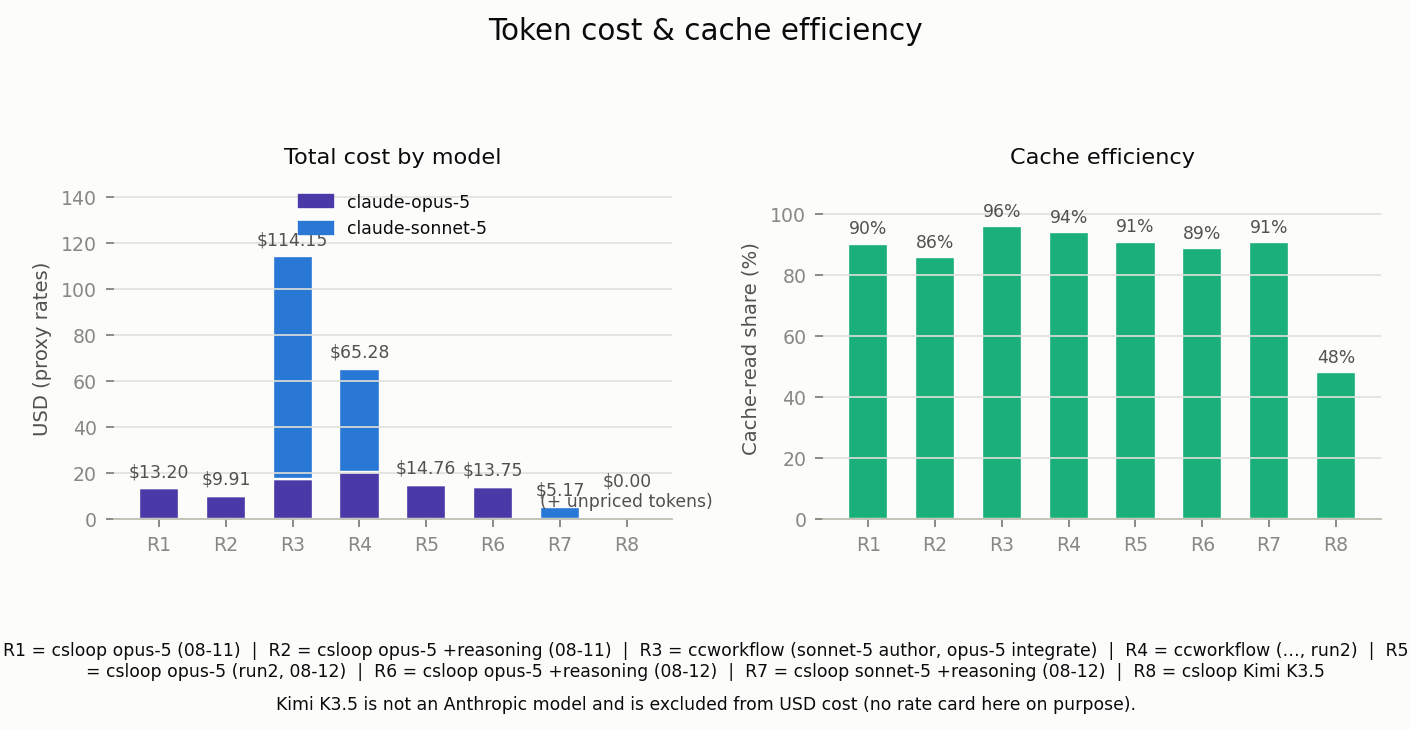
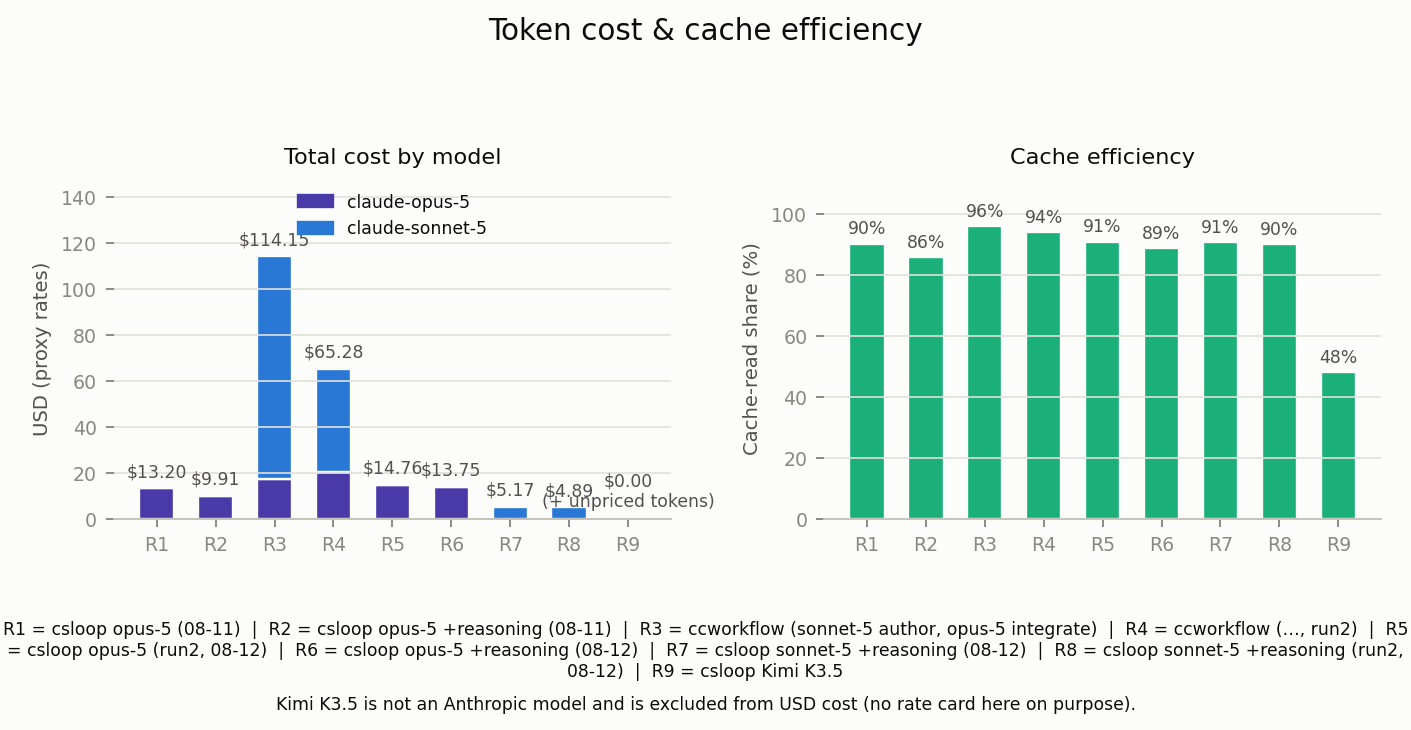
add evals

diff --git a/evals/analysis/generate_graphs.py b/evals/analysis/generate_graphs.py
@@ -40,7 +40,7 @@ from parse_ccworkflow import parse_all_ccworkflow
 from parse_csloop import parse_all_csloop
 from parse_coverage import coverage_for_run
 from pricing import cost, PRICING
-from git_file_counts import translated_file_count
+from git_file_counts import translated_file_count, translated_file_units, module_of
 
 REPO_ROOT = Path(__file__).parent.parent
 EXPERIMENTS = REPO_ROOT / "experiments"
@@ -124,6 +124,7 @@ RUN_LABELS = {
     ("08-12-2026", "codescribe-opus-5-run2"): "csloop opus-5 (run2, 08-12)",
     ("08-12-2026", "codescribe-opus-5-with-reasoning"): "csloop opus-5 +reasoning (08-12)",
     ("08-12-2026", "codescribe-sonnet-5-with-reasoning"): "csloop sonnet-5 +reasoning (08-12)",
+    ("08-12-2026", "codescribe-sonnet-5-with-reasoning-run2"): "csloop sonnet-5 +reasoning (run2, 08-12)",
     ("08-12-2026", "codescribe-kimi-k3-5"): "csloop Kimi K3.5",
 }
 # Short x-axis codes — keeps bars legible even in the compact standalone
@@ -136,13 +137,15 @@ RUN_CODES = {
     ("08-12-2026", "codescribe-opus-5-run2"): "R5",
     ("08-12-2026", "codescribe-opus-5-with-reasoning"): "R6",
     ("08-12-2026", "codescribe-sonnet-5-with-reasoning"): "R7",
-    ("08-12-2026", "codescribe-kimi-k3-5"): "R8",
+    ("08-12-2026", "codescribe-sonnet-5-with-reasoning-run2"): "R8",
+    ("08-12-2026", "codescribe-kimi-k3-5"): "R9",
 }
 RUN_CODE_CAPTION = (
     "R1 = csloop opus-5 (08-11)  |  R2 = csloop opus-5 +reasoning (08-11)  |  "
     "R3 = ccworkflow (sonnet-5 author, opus-5 integrate)  |  R4 = ccworkflow (…, run2)  |  "
     "R5 = csloop opus-5 (run2, 08-12)  |  R6 = csloop opus-5 +reasoning (08-12)  |  "
-    "R7 = csloop sonnet-5 +reasoning (08-12)  |  R8 = csloop Kimi K3.5"
+    "R7 = csloop sonnet-5 +reasoning (08-12)  |  R8 = csloop sonnet-5 +reasoning (run2, 08-12)  |  "
+    "R9 = csloop Kimi K3.5"
 )
 KEYS = list(RUN_LABELS.keys())
 
@@ -292,6 +295,46 @@ def load_files_settled():
     """Exact translated-file count per run, from the software/mcfm submodule
     branch (git_file_counts.py) — not the agent's self-reported checklist."""
     return {key: translated_file_count(*key) for key in KEYS}
+
+
+def load_translated_units():
+    """Exact list of translated-file identities per run (e.g. "BDK/M1bit1"),
+    used to compare which specific files different runs picked."""
+    return {key: translated_file_units(*key) for key in KEYS}
+
+
+def modules_touched(translated_units):
+    """{run: {module: file_count}} — which top-level src/ directories each
+    run's translated files came from."""
+    from collections import Counter
+    return {k: Counter(module_of(u) for u in (units or [])) for k, units in translated_units.items()}
+
+
+def pairwise_file_overlap(translated_units):
+    """For every pair of runs that share at least one top-level module, the
+    exact and set-based overlap of which files they translated. Pairs with no
+    module in common are skipped — there's nothing to compare."""
+    keys = list(translated_units.keys())
+    pairs = []
+    for i in range(len(keys)):
+        for j in range(i + 1, len(keys)):
+            a, b = keys[i], keys[j]
+            set_a = set(translated_units[a] or [])
+            set_b = set(translated_units[b] or [])
+            modules_a = {module_of(u) for u in set_a}
+            modules_b = {module_of(u) for u in set_b}
+            shared_modules = sorted(modules_a & modules_b)
+            if not shared_modules:
+                continue
+            overlap = set_a & set_b
+            pairs.append({
+                "a": a, "b": b,
+                "shared_modules": shared_modules,
+                "files_a": len(set_a), "files_b": len(set_b),
+                "overlap": len(overlap),
+                "overlap_files": sorted(overlap),
+            })
+    return pairs
 
 
 def load_tool_calls_per_file(cc_rows, cs_rows, files_settled):
@@ -633,7 +676,7 @@ def make_combined_figure(runs, coverage, files_settled, reasoning_stats, wall_ti
 # ---------------------------------------------------------------------------
 # Summary tables (markdown) — single source of numeric truth for the write-up
 # ---------------------------------------------------------------------------
-def write_summary_tables(runs, coverage, files_settled, reasoning_stats, wall_times, tool_calls_per_file):
+def write_summary_tables(runs, coverage, files_settled, translated_units, reasoning_stats, wall_times, tool_calls_per_file):
     lines = ["# Summary tables (generated by analysis/generate_graphs.py — do not hand-edit)\n"]
 
     lines.append("## Run comparison: cost, cache, wall time, tool calls & files settled\n")
@@ -715,6 +758,40 @@ def write_summary_tables(runs, coverage, files_settled, reasoning_stats, wall_ti
         lines.append(f"| {RUN_LABELS[k].replace(chr(10), ' ')} | {c['final_status']} | {sp} |")
     lines.append("")
 
+    mods = modules_touched(translated_units)
+    all_modules = sorted({m for counts in mods.values() for m in counts})
+    lines.append("## Which src/ module each run translated files from (git-exact)\n")
+    lines.append(
+        "Which top-level `software/mcfm/src/` directory each run's translated files came from — "
+        "shows whether runs converged on the same module or scattered across different ones.\n"
+    )
+    lines.append("| Run | " + " | ".join(all_modules) + " | Total |")
+    lines.append("|---|" + "---:|" * (len(all_modules) + 1))
+    for k in KEYS:
+        counts = mods[k]
+        cells = [str(counts.get(m, 0) or "") for m in all_modules]
+        lines.append(f"| {RUN_LABELS[k].replace(chr(10), ' ')} | " + " | ".join(cells) + f" | {sum(counts.values())} |")
+    lines.append("")
+
+    overlaps = pairwise_file_overlap(translated_units)
+    lines.append("## File-level overlap between runs sharing a module (git-exact)\n")
+    lines.append(
+        "For every pair of runs that translated files from at least one of the same modules: how many of "
+        "the *exact same files* they both picked, vs. how many files each translated in total. High overlap "
+        "relative to the smaller run's total means the two runs converged on the same files; low overlap "
+        "despite a shared module means they diverged within it.\n"
+    )
+    lines.append("| Run A | Run B | Shared module(s) | Files (A) | Files (B) | Overlap | Overlap / min(A,B) |")
+    lines.append("|---|---|---|---:|---:|---:|---:|")
+    for p in sorted(overlaps, key=lambda p: -p["overlap"]):
+        denom = min(p["files_a"], p["files_b"]) or 1
+        lines.append(
+            f"| {RUN_LABELS[p['a']].replace(chr(10), ' ')} | {RUN_LABELS[p['b']].replace(chr(10), ' ')} | "
+            f"{', '.join(p['shared_modules'])} | {p['files_a']} | {p['files_b']} | {p['overlap']} | "
+            f"{100*p['overlap']/denom:.0f}% |"
+        )
+    lines.append("")
+
     out = Path(__file__).parent / "summary_tables.md"
     out.write_text("\n".join(lines))
     print(f"wrote {out}")
@@ -732,6 +809,8 @@ def main():
     for k, f in files_settled.items():
         print(f"{k}: files settled (git-exact) = {f}")
 
+    translated_units = load_translated_units()
+
     reasoning_stats = compute_reasoning_stats(cs_rows)
     wall_times = load_wall_times(cs_rows)
     for k, s in wall_times.items():
@@ -744,7 +823,7 @@ def main():
     make_standalone_figures(runs, coverage, files_settled, reasoning_stats, wall_times, tool_calls_per_file)
     _bump_fonts_for_combined()
     make_combined_figure(runs, coverage, files_settled, reasoning_stats, wall_times, tool_calls_per_file)
-    write_summary_tables(runs, coverage, files_settled, reasoning_stats, wall_times, tool_calls_per_file)
+    write_summary_tables(runs, coverage, files_settled, translated_units, reasoning_stats, wall_times, tool_calls_per_file)
 
 
 if __name__ == "__main__":

diff --git a/evals/analysis/git_file_counts.py b/evals/analysis/git_file_counts.py
@@ -49,26 +49,52 @@ def _resolve_branch_ref(day, run_name):
     return None
 
 
-def translated_file_count(day, run_name):
-    """Exact count of original Fortran files retired (renamed to deprecated/
-    or deleted outright) under src/, relative to BASE_REF. Returns None if the
-    branch can't be found."""
+def translated_file_units(day, run_name):
+    """Sorted list of unit identifiers for original Fortran files retired
+    (renamed to deprecated/ or deleted outright) under src/, relative to
+    BASE_REF — e.g. "BDK/M1bit1", "W2jet/fpp". One entry per translated file;
+    the .cpp/.hpp/_fi.F90 outputs of that translation are not separate
+    entries. Returns None if the branch can't be found."""
     ref = _resolve_branch_ref(day, run_name)
     if ref is None:
         return None
     diff = _git("diff", "--name-status", BASE_REF, ref, "--", "src/")
-    renamed = 0
-    deleted = 0
+    units = []
     for line in diff.splitlines():
         parts = line.split("\t")
-        status = parts[0]
+        status, path = parts[0], parts[1]
         if status.startswith("R") and status != "R100":
             continue  # partial-similarity renames aren't seen in practice; be conservative
         if status == "R100":
-            renamed += 1
-        elif status == "D" and parts[1].rstrip().lower().endswith((".f", ".f90")):
-            deleted += 1
-    return renamed + deleted
+            units.append(path)
+        elif status == "D" and path.rstrip().lower().endswith((".f", ".f90")):
+            units.append(path)
+    # Strip "src/" prefix and extension so the identifier is stable whether
+    # the file was found via a deprecated/ rename or a plain delete.
+    cleaned = []
+    for u in units:
+        u = u[len("src/"):] if u.startswith("src/") else u
+        for ext in (".f90", ".F90", ".f"):
+            if u.endswith(ext):
+                u = u[: -len(ext)]
+                break
+        cleaned.append(u)
+    return sorted(cleaned)
+
+
+def translated_file_count(day, run_name):
+    """Exact count of original Fortran files retired, relative to BASE_REF.
+    Returns None if the branch can't be found."""
+    units = translated_file_units(day, run_name)
+    return None if units is None else len(units)
+
+
+def module_of(unit):
+    """Top-level src/ subdirectory a unit belongs to, e.g. "BDK" for
+    "BDK/M1bit1". Units are built from the pre-rename path (see
+    translated_file_units), so this is always the module the file lived in
+    before translation, never "deprecated"."""
+    return unit.split("/")[0]
 
 
 if __name__ == "__main__":
@@ -76,8 +102,12 @@ if __name__ == "__main__":
         ("08-11-2026", "csloop-opus-5"),
         ("08-11-2026", "csloop-opus-5-with-reasoning"),
         ("08-12-2026", "ccworkflow-sonnet-5-opus-5-integrate"),
+        ("08-12-2026", "ccworkflow-sonnet-5-opus-5-integrate-run2"),
         ("08-12-2026", "codescribe-opus-5-run2"),
         ("08-12-2026", "codescribe-opus-5-with-reasoning"),
+        ("08-12-2026", "codescribe-sonnet-5-with-reasoning"),
+        ("08-12-2026", "codescribe-sonnet-5-with-reasoning-run2"),
         ("08-12-2026", "codescribe-kimi-k3-5"),
     ]:
-        print(day, run_name, translated_file_count(day, run_name))
+        units = translated_file_units(day, run_name)
+        print(day, run_name, len(units) if units is not None else None, units)

diff --git a/evals/analysis/summary_tables.md b/evals/analysis/summary_tables.md
@@ -11,6 +11,7 @@
 | csloop opus-5 (run2, 08-12) | $14.76 | 91% | 49 min | 22.5 | 19 | 2.6 min | $0.78 |
 | csloop opus-5 +reasoning (08-12) | $13.75 | 89% | 45 min | 27.4 | 14 | 3.2 min | $0.98 |
 | csloop sonnet-5 +reasoning (08-12) | $5.17 | 91% | 34 min | — | 0 | — | — |
+| csloop sonnet-5 +reasoning (run2, 08-12) | $4.89 | 90% | 35 min | 35.0 | 10 | 3.5 min | $0.49 |
 | csloop Kimi K3.5 | $0.00 (n/a, non-Anthropic) | 48% | 39 min | 68.8 | 5 | 7.9 min | n/a |
 
 ## Token usage, cost, cache & wall time detail
@@ -24,6 +25,7 @@
 | csloop opus-5 (run2, 08-12) | 217,433 | 148,767 | 789,671 | 10,046,165 | 91% | $14.76 | 49 min |
 | csloop opus-5 +reasoning (08-12) | 186,152 | 157,626 | 796,443 | 7,796,182 | 89% | $13.75 | 45 min |
 | csloop sonnet-5 +reasoning (08-12) | 187,693 | 129,013 | 703,545 | 8,733,778 | 91% | $5.17 | 34 min |
+| csloop sonnet-5 +reasoning (run2, 08-12) | 190,507 | 130,816 | 658,644 | 7,786,567 | 90% | $4.89 | 35 min |
 | csloop Kimi K3.5 | 6,713,860 | 72,134 | 0 | 6,229,312 | 48% | $0.00 (+ tokens from oaic-moonshotai/Kimi-K3, not priced) | 39 min |
 
 ## Cost by model
@@ -37,6 +39,7 @@
 | csloop opus-5 (run2, 08-12) | $14.76 | $0.00 |
 | csloop opus-5 +reasoning (08-12) | $13.75 | $0.00 |
 | csloop sonnet-5 +reasoning (08-12) | $0.00 | $5.17 |
+| csloop sonnet-5 +reasoning (run2, 08-12) | $0.00 | $4.89 |
 | csloop Kimi K3.5 | $0.00 | $0.00 |
 
 ## csloop opus-5: +reasoning vs. run2 tool-call outcomes (08-12-2026)
@@ -57,4 +60,42 @@
 | csloop opus-5 (run2, 08-12) | stopped-at-gate | — |
 | csloop opus-5 +reasoning (08-12) | stopped-at-gate | 272/272 |
 | csloop sonnet-5 +reasoning (08-12) | stopped-at-gate | 272/272 |
+| csloop sonnet-5 +reasoning (run2, 08-12) | stopped-at-gate | — |
 | csloop Kimi K3.5 | stopped-at-gate | — |
+
+## Which src/ module each run translated files from (git-exact)
+
+Which top-level `software/mcfm/src/` directory each run's translated files came from — shows whether runs converged on the same module or scattered across different ones.
+
+| Run | BDK | Mods | Procdep | ThreeJets | W2jet | Z2jet | loop | Total |
+|---|---:|---:|---:|---:|---:|---:|---:|---:|
+| csloop opus-5 (08-11) |  |  |  |  | 15 |  |  | 15 |
+| csloop opus-5 +reasoning (08-11) |  |  |  |  | 5 | 6 | 9 | 20 |
+| ccworkflow (sonnet-5 author, opus-5 integrate) | 12 | 2 | 1 | 11 |  | 6 | 9 | 41 |
+| ccworkflow (sonnet-5 author, opus-5 integrate, run2) | 15 |  |  |  |  |  |  | 15 |
+| csloop opus-5 (run2, 08-12) |  |  |  |  | 19 |  |  | 19 |
+| csloop opus-5 +reasoning (08-12) |  |  |  |  | 14 |  |  | 14 |
+| csloop sonnet-5 +reasoning (08-12) |  |  |  |  |  |  |  | 0 |
+| csloop sonnet-5 +reasoning (run2, 08-12) | 10 |  |  |  |  |  |  | 10 |
+| csloop Kimi K3.5 |  |  |  |  | 5 |  |  | 5 |
+
+## File-level overlap between runs sharing a module (git-exact)
+
+For every pair of runs that translated files from at least one of the same modules: how many of the *exact same files* they both picked, vs. how many files each translated in total. High overlap relative to the smaller run's total means the two runs converged on the same files; low overlap despite a shared module means they diverged within it.
+
+| Run A | Run B | Shared module(s) | Files (A) | Files (B) | Overlap | Overlap / min(A,B) |
+|---|---|---|---:|---:|---:|---:|
+| csloop opus-5 (08-11) | csloop opus-5 (run2, 08-12) | W2jet | 15 | 19 | 14 | 93% |
+| csloop opus-5 +reasoning (08-11) | ccworkflow (sonnet-5 author, opus-5 integrate) | Z2jet, loop | 20 | 41 | 14 | 70% |
+| csloop opus-5 (run2, 08-12) | csloop opus-5 +reasoning (08-12) | W2jet | 19 | 14 | 12 | 86% |
+| csloop opus-5 (08-11) | csloop opus-5 +reasoning (08-12) | W2jet | 15 | 14 | 11 | 79% |
+| ccworkflow (sonnet-5 author, opus-5 integrate) | ccworkflow (sonnet-5 author, opus-5 integrate, run2) | BDK | 41 | 15 | 8 | 53% |
+| csloop opus-5 (08-11) | csloop opus-5 +reasoning (08-11) | W2jet | 15 | 20 | 5 | 33% |
+| csloop opus-5 +reasoning (08-11) | csloop opus-5 (run2, 08-12) | W2jet | 20 | 19 | 5 | 26% |
+| csloop opus-5 (run2, 08-12) | csloop Kimi K3.5 | W2jet | 19 | 5 | 5 | 100% |
+| csloop opus-5 +reasoning (08-11) | csloop opus-5 +reasoning (08-12) | W2jet | 20 | 14 | 4 | 29% |
+| csloop opus-5 (08-11) | csloop Kimi K3.5 | W2jet | 15 | 5 | 3 | 60% |
+| ccworkflow (sonnet-5 author, opus-5 integrate) | csloop sonnet-5 +reasoning (run2, 08-12) | BDK | 41 | 10 | 3 | 30% |
+| csloop opus-5 +reasoning (08-12) | csloop Kimi K3.5 | W2jet | 14 | 5 | 3 | 60% |
+| csloop opus-5 +reasoning (08-11) | csloop Kimi K3.5 | W2jet | 20 | 5 | 1 | 20% |
+| ccworkflow (sonnet-5 author, opus-5 integrate, run2) | csloop sonnet-5 +reasoning (run2, 08-12) | BDK | 15 | 10 | 0 | 0% |
